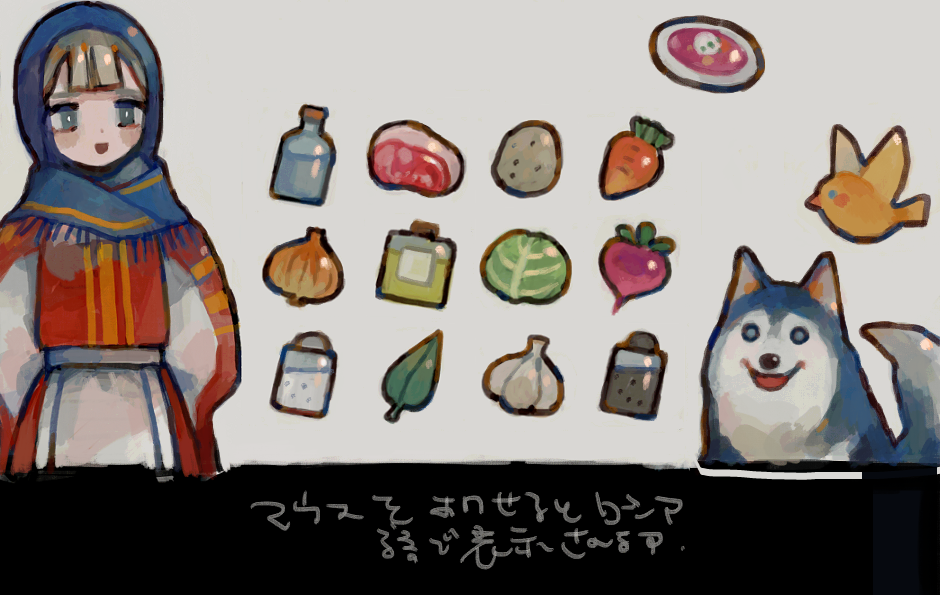
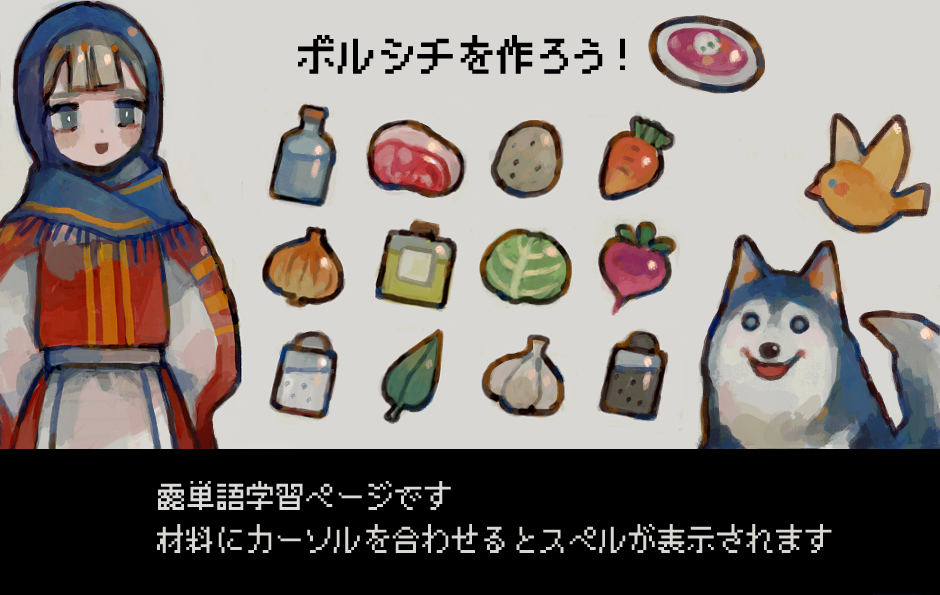
final21

Changed region(s): [[0.0, 0.1815, 1.0, 0.9681], [0.3085, 0.0605, 0.6787, 0.121]]

diff --git a/finalwork/sketch.js b/finalwork/sketch.js
@@ -20,20 +20,12 @@ let y = mouseY;
 let gray = color(217, 215, 212);
 let black = color(0);
 
-push;
-fill(black);
-rect(0,460,940,140);
-textSize(30);
-text("ボルシチを作ろう！",470-textWidth("ボルシチを作ろう")/2,50+textAscent("ボルシチを作ろう"));
-fill(255)
-text("アイコンにカーソルを合わせるとロシア語で表示されます",470-textWidth("アイコンにカーソルを合わせるとロシア語で表示されます")/2,500+textAscent("アイコンにカーソルを合わせるとロシア語で表示されます"));
-pop;
 
 if(x>250 && x<360 && y>100 && y<210){ //タイル1:水
   push();
   fill(gray);
   noStroke();
-  rect(250,100,110,110)
+  rect(250,100,110,110);
   balloon("вода",305,155,black);
   pop();
 }
@@ -42,7 +34,7 @@ if(x>360 && x<470 && y>100 && y<210){ //タイル2:肉
   push();
   fill(gray);
   noStroke();
-  rect(360,100,110,110)
+  rect(360,100,110,110);
   balloon("мясо",415,155,black);
   pop();
 }
@@ -51,7 +43,7 @@ if(x>470 && x<580 && y>100 && y<210){ //タイル3:じゃがいも
   push();
   fill(gray);
   noStroke();
-  rect(470,100,110,110)
+  rect(470,100,110,110);
   balloon("Картошка",525,155,black);
   pop();
 }
@@ -60,7 +52,7 @@ if(x>580 && x<690 && y>100 && y<210){ //タイル4:にんじん
   push();
   fill(gray);
   noStroke();
-  rect(580,100,110,110)
+  rect(580,100,110,110);
   balloon("морковь",635,155,black);
   pop();
 }
@@ -69,7 +61,7 @@ if(x>250 && x<360 && y>210 && y<320){ //タイル5:たまねぎ
   push();
   fill(gray);
   noStroke();
-  rect(250,210,110,110)
+  rect(250,210,110,110);
   balloon("лук",305,265,black);
   pop();
 }
@@ -78,7 +70,7 @@ if(x>360 && x<470 && y>210 && y<320){ //タイル6:油
   push();
   fill(gray);
   noStroke();
-  rect(360,210,110,110)
+  rect(360,210,110,110);
   balloon("масло",415,265,black);
   pop();
 }
@@ -87,7 +79,7 @@ if(x>470 && x<580 && y>210 && y<320){ //タイル7:キャベツ
   push();
   fill(gray);
   noStroke();
-  rect(470,210,110,110)
+  rect(470,210,110,110);
   balloon("капуста",525,265,black);
   pop();
 }
@@ -96,7 +88,7 @@ if(x>580 && x<690 && y>210 && y<320){ //タイル8:ビーツ
   push();
   fill(gray);
   noStroke();
-  rect(580,210,110,110)
+  rect(580,210,110,110);
   balloon("свёкла",635,265,black);
   pop();
 }
@@ -105,7 +97,7 @@ if(x>250 && x<360 && y>320 && y<430){ //タイル9:塩
   push();
   fill(gray);
   noStroke();
-  rect(250,320,110,110)
+  rect(250,320,110,110);
   balloon("соль",305,375,black);
   pop();
 }
@@ -114,7 +106,7 @@ if(x>360 && x<470 && y>320 && y<430){ //タイル10:ハーブ
   push();
   fill(gray);
   noStroke();
-  rect(360,320,110,110)
+  rect(360,320,110,110);
   balloon("зелень",415,375,black);
   pop();
 }
@@ -123,7 +115,7 @@ if(x>470 && x<580 && y>320 && y<430){ //タイル11:ニンニク
   push();
   fill(gray);
   noStroke();
-  rect(470,320,110,110)
+  rect(470,320,110,110);
   balloon("чеснок",525,375,black);
   pop();
 }
@@ -132,32 +124,38 @@ if(x>580 && x<690 && y>320 && y<430){ //タイル12:胡椒
   push();
   fill(gray);
   noStroke();
-  rect(580,320,110,110)
+  rect(580,320,110,110);
   balloon("перец",635,375,black);
   pop();
 }
 
+//ボルシチ
+if(x>645 && x<770 && y>10 && y<95){
+  push();
+  fill(gray);
+  noStroke();
+  rect(645,10,125,85);
+  balloon("Борщ",635,375,black);
+  pop();
+}
+
 //以下吹き出しの設定
+push();
 function balloon(t,x,y,color){
   let w = textWidth(t);
-  let h = textAscent() + textDescent();
-  let p = 14;
-  let a = w + p * 2
-  let b = h + p * 2
-  let c = w /2 + p
-  let d = h /2 + p
+
+
 
 //吹き出し本体
   noStroke();
   textSize(18);
   fill(black);
-  rect(x-c, y-d, a, b);
-  ellipse(x-c, y+b/2-d , b);
-  ellipse(x+a-c, y+b/2-d, b);
-  tri(x+a/2-5-c, y+b-d);
+  rect(x-(textWidth(t)/2+10), y-23, textWidth(t)+20, 46);
+  ellipse(x-(textWidth(t)/2+10), y , 46);
+  ellipse(x+(textWidth(t)/2+10), y, 46);
+  tri(x-5, y+23);
   fill(255);
-
-  text(t, x-c+6, y+h+p/2-d+2)
+  text(t, x-(textWidth(t)/2), y+6);
 
 }
 
@@ -171,5 +169,6 @@ function tri(x, y){
 
   endShape(CLOSE);
 }
+pop();
 
 }
